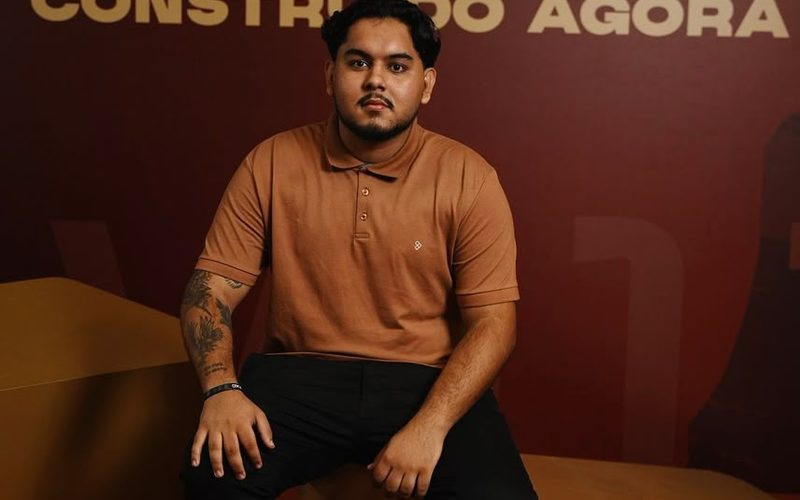
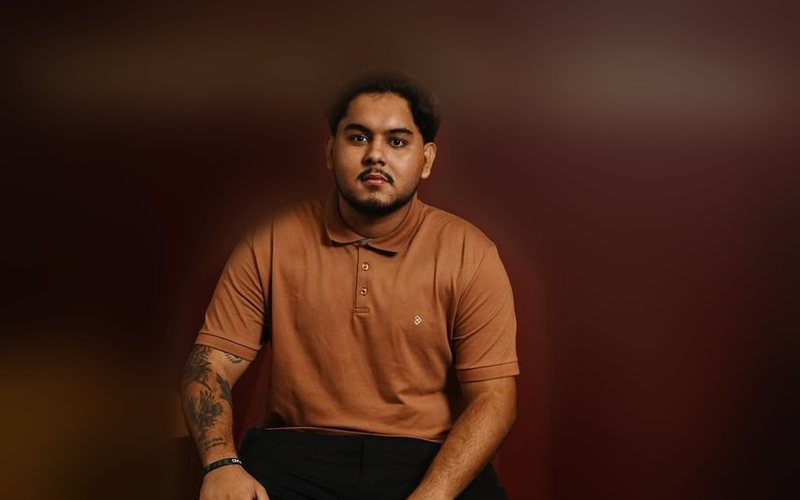
Troca a foto do hero pela polo terracota e limpa o fundo do card da Mentoria
- Hero: polo terracota (combina com a paleta), recortada sem o letreiro do evento
- Card Consultoria: foto da polo preta
- Card Mentoria: fundo desfocado para esconder o letreiro atrás da cabeça
- Remove imagens não usadas

Claude-Session: https://claude.ai/code/session_011Ju1c6CxHtptzmreeGQxAb

diff --git a/index.html b/index.html
@@ -57,7 +57,7 @@
     <div class="hero-photo" id="heroPhoto">
       <picture>
         <source srcset="assets/img/hero.webp" type="image/webp">
-        <img id="heroImg" src="assets/img/hero.jpg" alt="Mateus Oliveira de braços cruzados, camisa polo preta" width="800" height="1000" fetchpriority="high">
+        <img id="heroImg" src="assets/img/hero.jpg" alt="Mateus Oliveira de braços cruzados, camisa polo terracota" width="800" height="1000" fetchpriority="high">
       </picture>
       <div class="tiles" id="tiles" aria-hidden="true"></div>
       <div class="hero-fade" aria-hidden="true"></div>
@@ -86,7 +86,7 @@
 
     <article class="card card-photo card-primary reveal">
       <div class="card-media">
-        <picture><source srcset="assets/img/diagnostico.webp" type="image/webp"><img src="assets/img/diagnostico.jpg" alt="Mateus sentado, de braços cruzados" loading="lazy" width="800" height="500"></picture>
+        <picture><source srcset="assets/img/diagnostico.webp" type="image/webp"><img src="assets/img/diagnostico.jpg" alt="Mateus de braços cruzados, camisa polo preta" loading="lazy" width="800" height="500"></picture>
         <span class="badge"><svg class="ic"><use href="#i-briefcase"/></svg> Para empresas</span>
       </div>
       <div class="card-body">
@@ -98,7 +98,7 @@
 
     <article class="card card-photo reveal">
       <div class="card-media">
-        <picture><source srcset="assets/img/mentoria.webp" type="image/webp"><img src="assets/img/mentoria.jpg" alt="Mateus sentado em um palco" loading="lazy" width="800" height="500"></picture>
+        <picture><source srcset="assets/img/mentoria.webp" type="image/webp"><img src="assets/img/mentoria.jpg" alt="Mateus sentado, camisa polo terracota" loading="lazy" width="800" height="500"></picture>
         <span class="badge"><svg class="ic"><use href="#i-rocket"/></svg> Para gestores e agências</span>
       </div>
       <div class="card-body">
